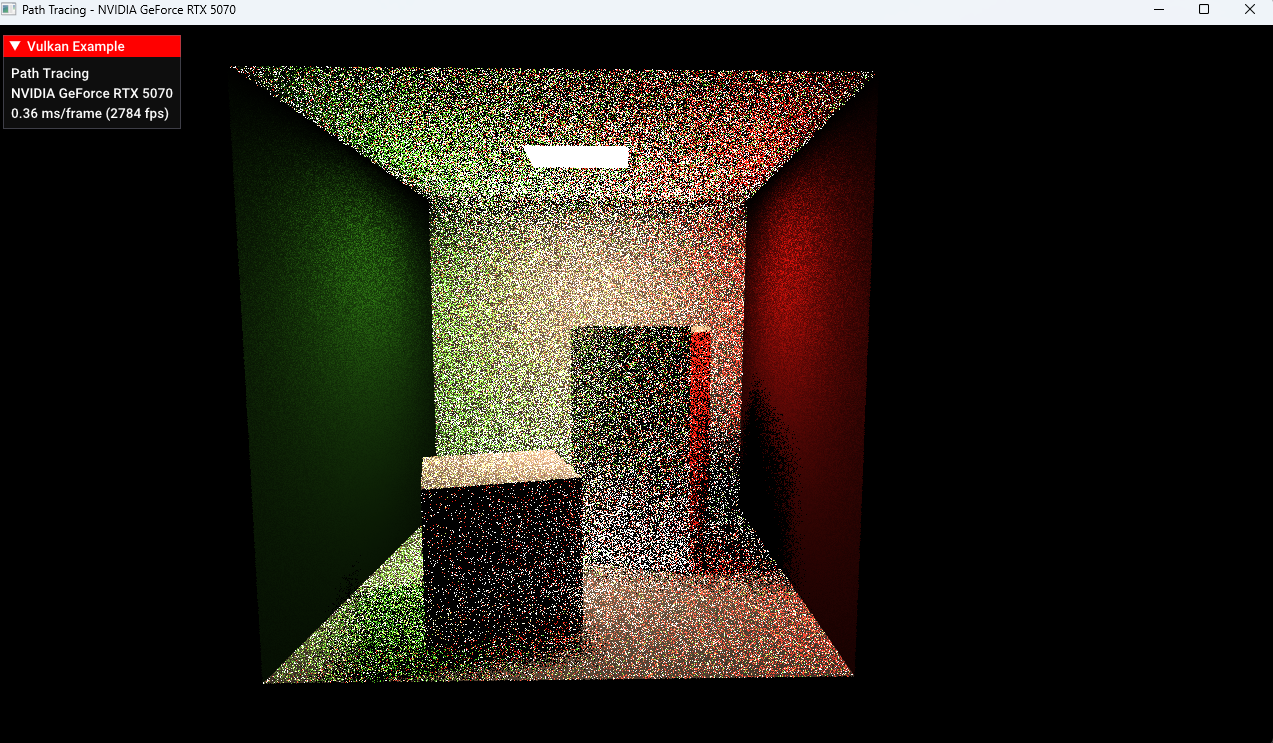
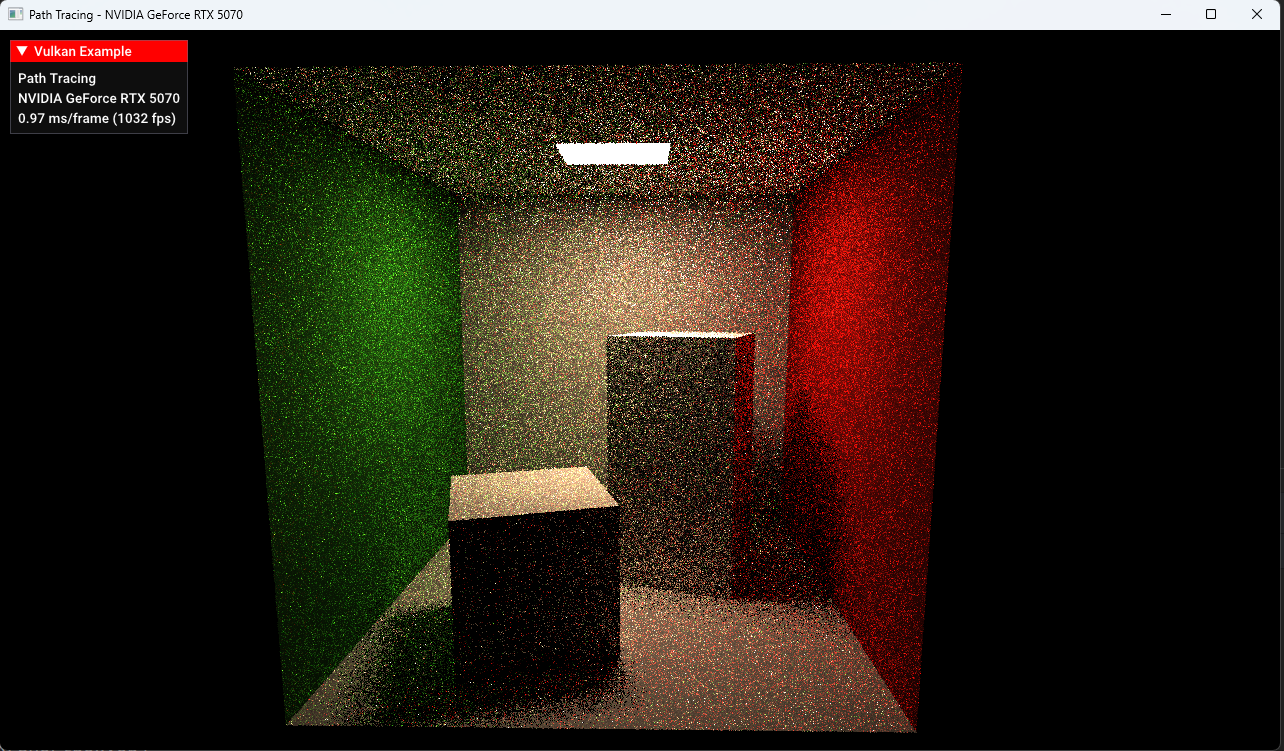
implement MIS

diff --git a/README.md b/README.md
@@ -6,10 +6,11 @@ A hardware-accelerated ray tracing engine using Vulkan
 ## Feature
 
 - Monte Carlo Path Tracing
-- NEE
+- Next Event Estimation
 - Cosine-Weighted Importance Sampling
-- Diffuse Material
-- Specular Material
+- Multiple Importance Sampling
+- Lambertian Material
+- Mirror Material
 
 ![1spp128bounce](./demos/1spp128bounce.png)
 
